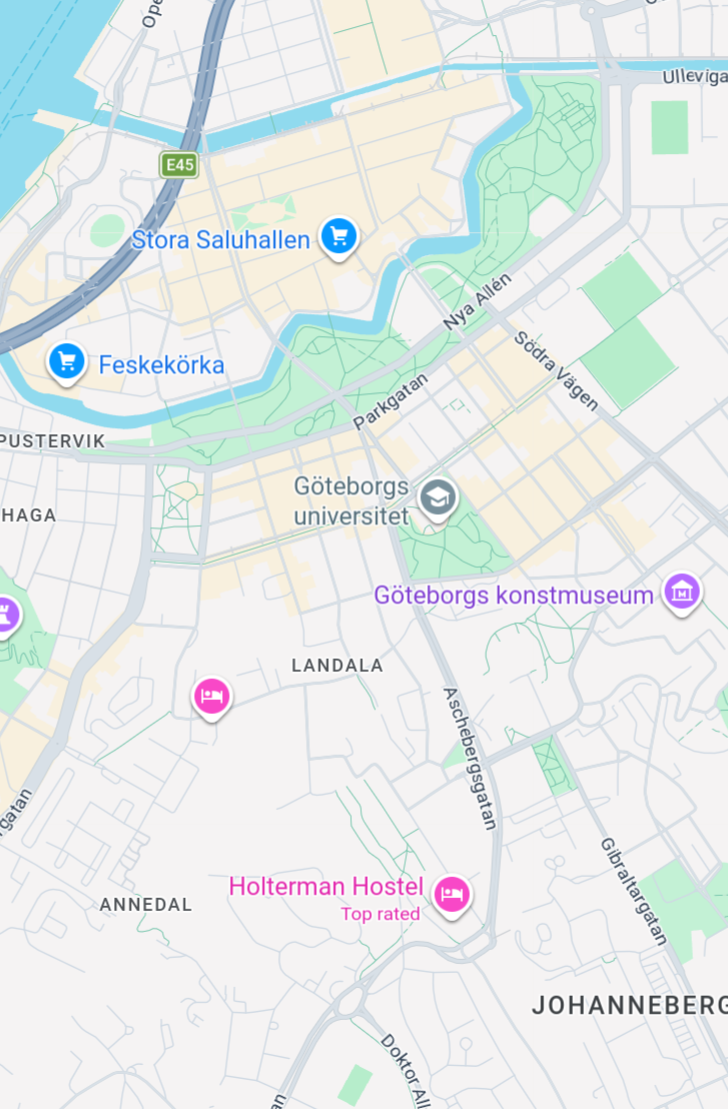
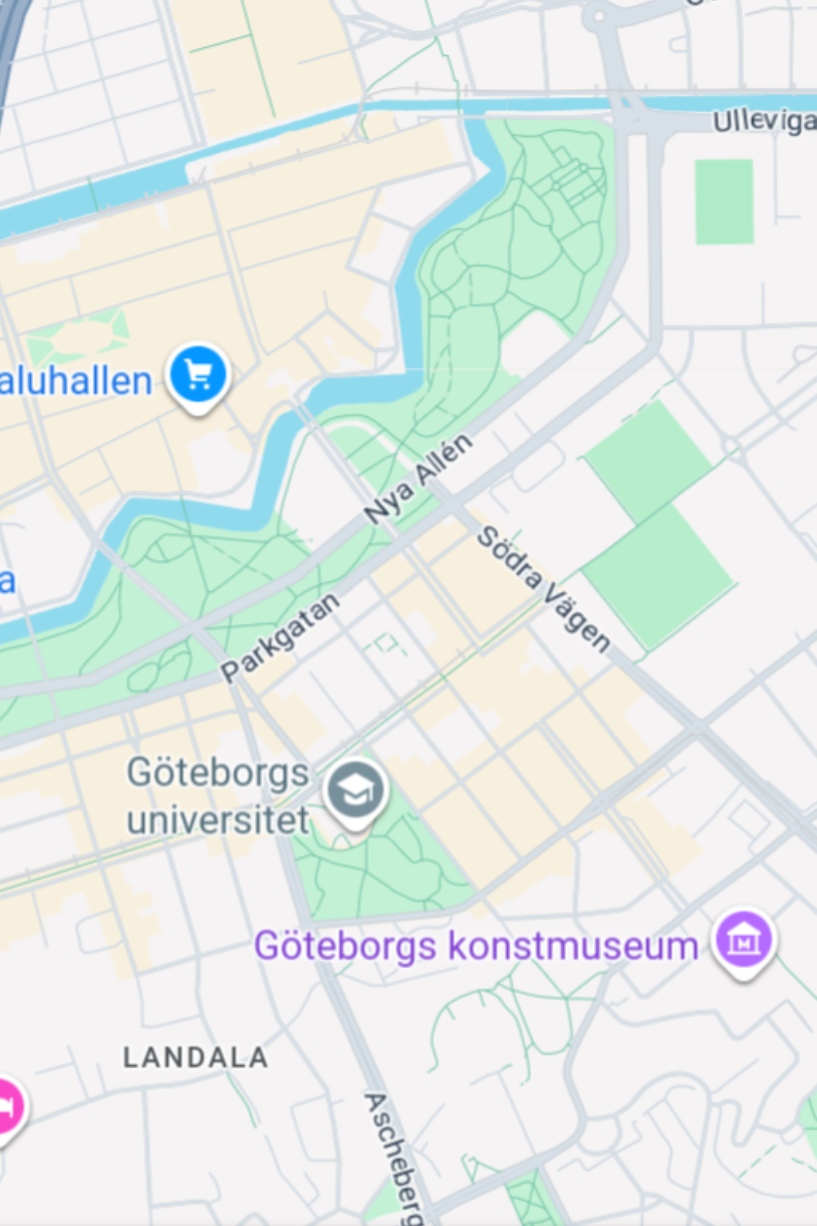
Fix gaps and placements

diff --git a/index.html b/index.html
@@ -60,7 +60,7 @@
                                 placeholder="Jag vill gärna ha..."></textarea></label>
                     </div>
                     <div class="form-2">
-                        <label><b style="font-size: 12px; position: relative; right: 3px;">Antal passagerare*</b> <br>
+                        <label><b style="position: relative; right: 3px;">Antal passagerare*</b> <br>
                             <select name="antal-passagerare" id="">
                                 <option value="1">1</option>
                                 <option value="2">2</option>
@@ -83,10 +83,8 @@
                                 <option value="sedan">Sedan</option>
                                 <option value="pansarvagn">Pansarvagn!!!</option>
                             </select>
-                        </label><br>
-                    </div>
-                    <div class="form-2">
-                        <img src="questionmark.png" alt="question-mark">
+                        </label>
+                        <img src="questionmark.png" alt="question-mark" height="14px" style="margin-left: 20px;">
                     </div>
                 </div>
                 <p style="font-size: large;"><b>Föreslagna bilar</b></p>
@@ -266,7 +264,7 @@
             </form>
         </div>
         <div class="map">
-            <img src="map.png" alt="map-pic">
+            <img src="map.png" alt="map-pic" height="700px">
         </div>
     </div>
 </body>

diff --git a/styles.css b/styles.css
@@ -9,12 +9,7 @@ body {
     padding: 0;
     font-size: small;
     font-family: 'Segoe UI', Tahoma, Geneva, Verdana, sans-serif
-}
-
-img {
-    /* height: 100%; */
-    width: 100%;
-}
+} 
 
 .header {
     display: flex;
@@ -58,7 +53,7 @@ img {
 }
 
 .booking-interface {
-    width: 60%;
+    width: 70%;
     margin-left: 5px;
     margin-right: 5px;
 }
@@ -67,24 +62,30 @@ img {
     display: flex;
     flex-direction: row;
     width: 100%;
-
+    align-items: flex-start;
 }
 
 .form-1 {
-    width: 41.75%;
+    width: 31.75%;
 }
-
 
 .form-2 {
-    width: 16.5%;
+    /* width: 18.25%; */
+    width: auto;
+    /* display: flex; */
+    /* align-items: center;
+    gap: 5px; */
+    margin-right: 20px;
 }
 
-.form-2 > img {
-    height: ;
+select {
+    min-width: 20px;
+    width: 120px;
 }
 
 .map {
     overflow: hidden; /* prevents spill */
+    width: 33.3%;
 }
 
 .checkboxes {
@@ -101,7 +102,7 @@ img {
     border-radius: 3px;
     font-size: 10px;
     margin-top: 29px;
-    width: 90%;
+    width: 120px;
 }
 
 input,
@@ -124,10 +125,7 @@ input[type='text'] {
     margin-bottom: 8px;
 }
 
-select {
-    min-width: 20px;
-    width: 90%;
-}
+
 
 
 
